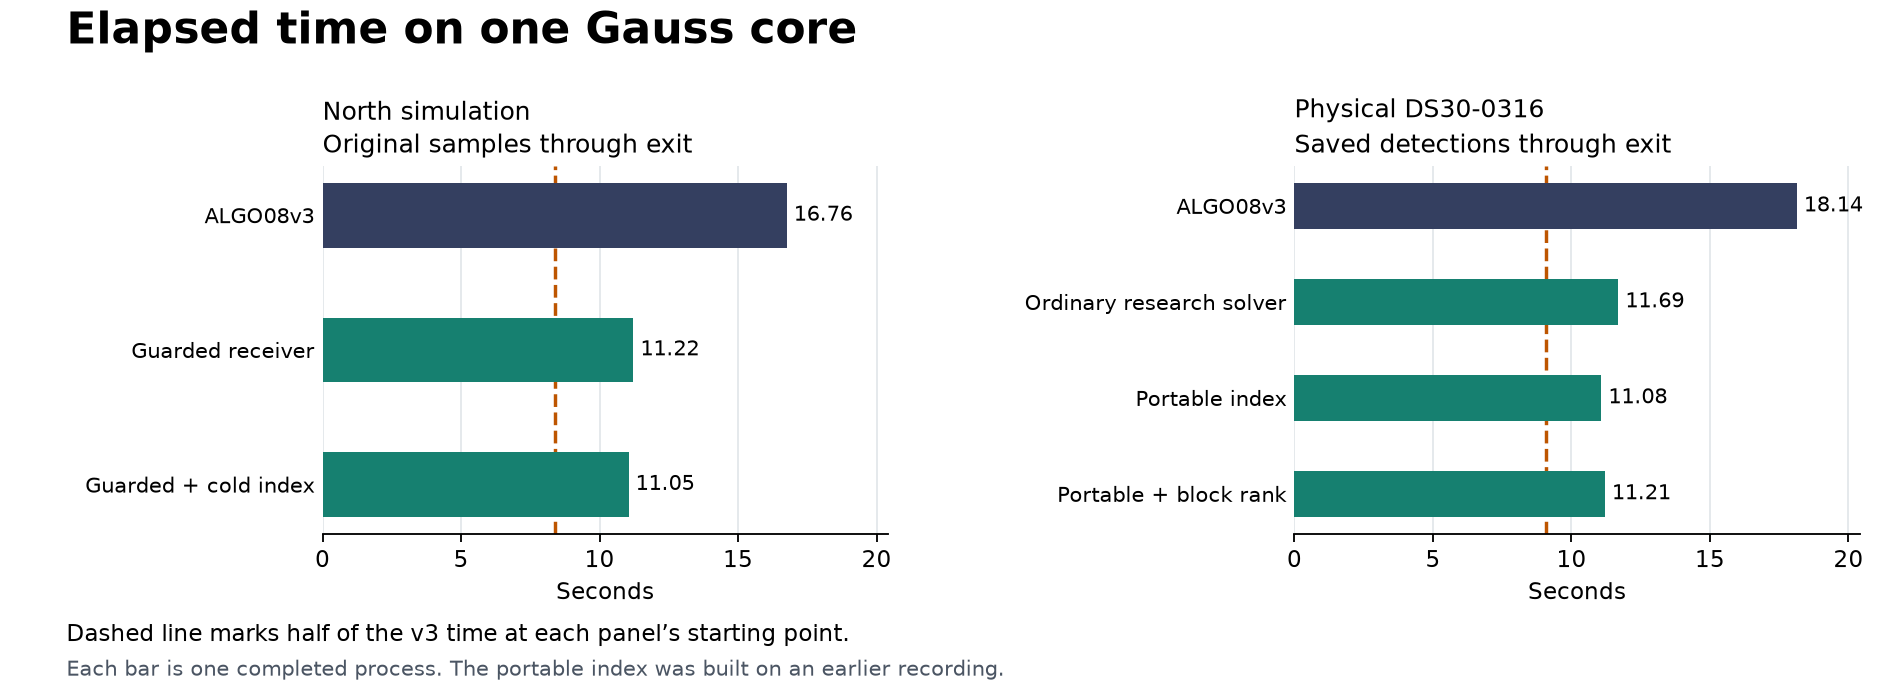
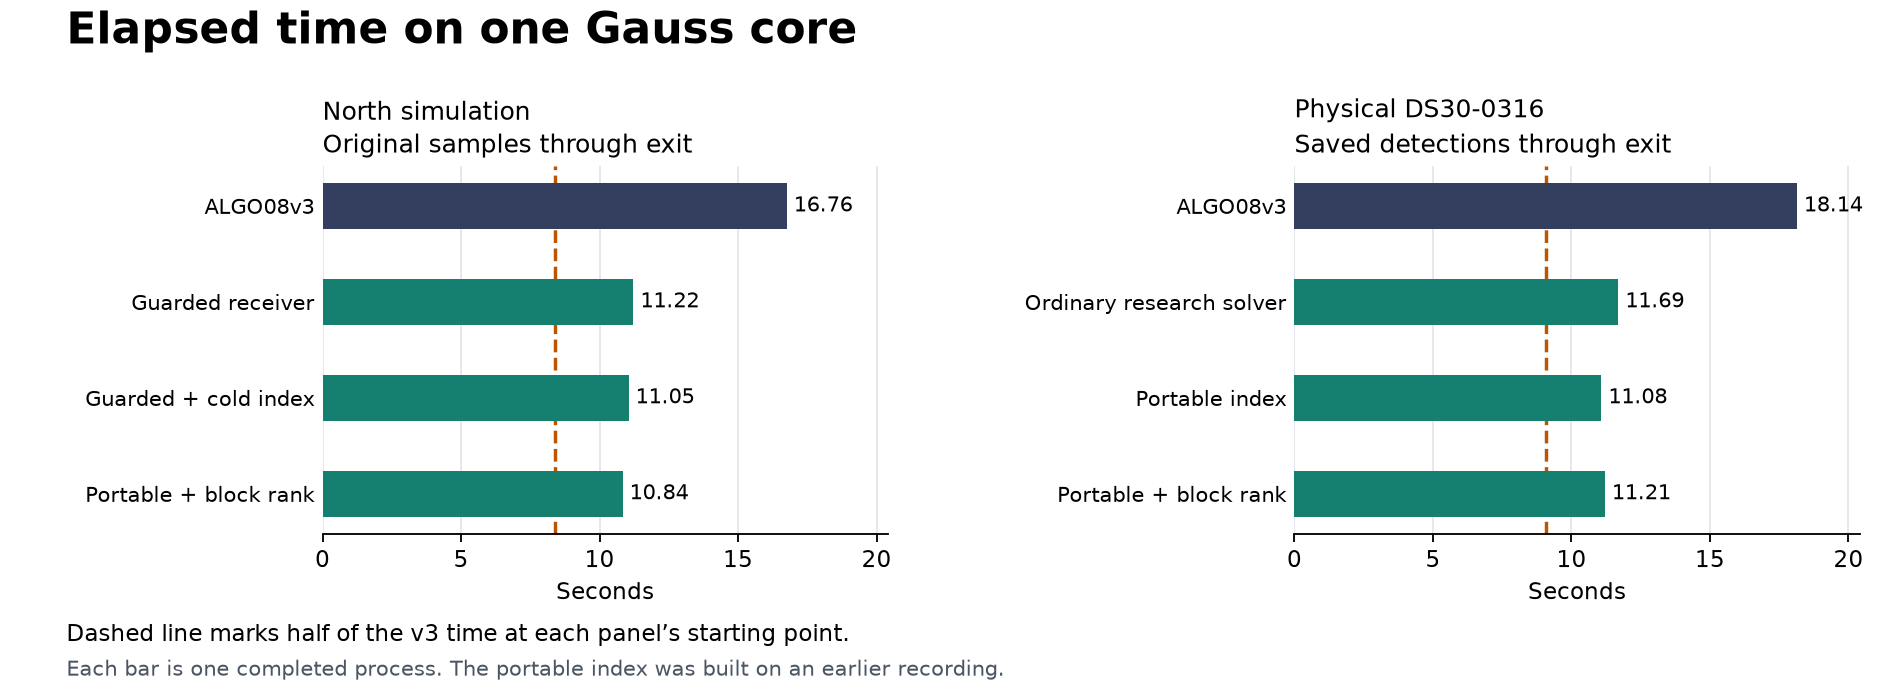
Compare the complete combined raw entry and frozen v3 on the physical omitted region

Changed region(s): [[0.0622, 0.3939, 0.3732, 0.6061], [0.0311, 0.6364, 0.3732, 0.7273], [0.0933, 0.2727, 0.4665, 0.3636]]

diff --git a/reports/ALGO08/v3/orbit_rank_gates_figure.py b/reports/ALGO08/v3/orbit_rank_gates_figure.py
@@ -15,14 +15,17 @@ def read_receipt(stem):
 
 def panels():
     north = read_receipt("north-orbit-index-active")
+    combined = read_receipt("combined-raw-north")
     medium = read_receipt("catalogue-block-portable-0316")["result"]
-    if north["diagnostic_fallback"] or not medium["rank_validated"]:
+    if (north["diagnostic_fallback"] or combined["candidate"]["diagnostic_fallback"]
+            or combined["rank"]["counts"]["admitted_ranks"] != 1 or not medium["rank_validated"]):
         raise ValueError("Panel requires a verified original region check and complete cold rank")
     return [
         ("North simulation", "Original samples through exit", [
             ("ALGO08v3", north["prior"]["named"]["clock"]["elapsed_s"]),
             ("Guarded receiver", north["prior"]["selective"]["clock"]["elapsed_s"]),
-            ("Guarded + cold index", north["clock"]["elapsed_s"])]),
+            ("Guarded + cold index", north["clock"]["elapsed_s"]),
+            ("Portable + block rank", combined["candidate"]["clock"]["elapsed_s"])]),
         ("Physical DS30-0316", "Saved detections through exit", [
             ("ALGO08v3", medium["historical"]["recent_named"]["process"]["elapsed_s"]),
             ("Ordinary research solver", medium["ordinary"]["through_exit"]["elapsed_s"]),

diff --git a/reports/ALGO08/v3/portable_omitted_region.py b/reports/ALGO08/v3/portable_omitted_region.py
@@ -146,6 +146,8 @@ def score(root, output="result.json", *, runtime_ready=False):
         run["horizontal_error_km"] = {arm: distance_km(site, row["latlon"])
             for arm, row in actual["terminal"]["arms"].items() if row.get("latlon")}
         detail = traces[mode] = read(root/mode/"selective/joint-research-receipt.json")
+        run["publication_elapsed_s"] = detail["publication_elapsed_s"]
+        run["publication_cpu_s"] = detail["publication_cpu_s"]
         run["early_regional"] = detail["early_regional"]
         run["projector"] = detail["solve"]["geographic_projector"]
         run["catalogue_handoff"] = detail["solve"]["prepared_exterior"]

diff --git a/tests/pipeline_eval/test_orbit_rank_gates_figure.py b/tests/pipeline_eval/test_orbit_rank_gates_figure.py
@@ -8,5 +8,5 @@ from orbit_rank_gates_figure import panels
 def test_chart_keeps_the_two_distinct_through_exit_boundaries_and_controls():
     north, medium = panels()
     assert [north[1], medium[1]] == ["Original samples through exit", "Saved detections through exit"]
-    assert [round(value, 3) for _, value in north[2]] == [16.761, 11.224, 11.051]
+    assert [round(value, 3) for _, value in north[2]] == [16.761, 11.224, 11.051, 10.835]
     assert [round(value, 3) for _, value in medium[2]] == [18.140, 11.695, 11.083, 11.209]

diff --git a/reports/ALGO08/v3/portable-omitted-region.md b/reports/ALGO08/v3/portable-omitted-region.md
@@ -10,6 +10,8 @@ The corrected portable solver ran the original geographic check and preserved bo
 
 The search centre and screening centre both moved two degrees east. Their original offset and the width remained intact. Each fresh process received the same signed physical detector packet and authenticated its orbit inputs. The frozen 2.69 MB source index came from the earlier DS30-0008 recording. The two repaired pairs matched all scientific values in the position grid, path, terminal, owners, and encoded and decoded images. The full grid document has a distinct elapsed-time field per publication. The comparison checks that field separately from the scientific values. Geography was scored after prediction against the existing operator site reference. There was no independent GNSS survey or new receiver location. [Containing pair](measurements/portable-omitted-region-repaired-containing.json.gz) · [Omitted pair](measurements/portable-omitted-region-repaired-translated.json.gz)
 
+**Frozen ALGO08v3 also falsely published.** Its original complete 20 ms detections produced fixed-zero/fitted errors of **179.490/183.656 km** on the translated offer, versus **1.644/1.661 km** on the containing offer. The 90 observations retained on the translated offer all came from its original fix, and every one changed satellite assignment. The recording supports substantially different assignments in these two offered regions. Matching a large set of observations alone does not establish which region is correct. The translated named process took 6.108 s from its own saved detections through exit and produced all eight verified PNGs. [Frozen v3 publications, assignments and RF fit](named-0016-translated.md)
+
 The earlier index returned text-line pairs before one regional consumer had received the native SGP4 objects it needed. It therefore lost the geographic evidence and took a different path. In the translated test with family calibration guarded, the indexed path retained a single family and withheld because zero independent rows remained for the calibration. Without the guard, that path stopped at the empty calibration mask after 4.836 s. On the ordinary path, 100 observations per arm survived on the wrong region. A separate first attempt at collecting the guarded timing pair wrote both terminals, then failed gathering process metadata because a thread-setting variable was absent. That attempt took 4.364/4.687 s portable/ordinary. The table uses the completed pair after setting all five numerical thread counts to one. A repeat of the read-only scorer verified the existing child results. [Earlier indexed pair](measurements/portable-omitted-region-original.json.gz)
 
 The repair constructs real orbit objects before either regional consumer sees the catalogue. The strengthened scorer now checks the actual proof results, catalogue handoff and native projection counts, alongside all position products. It rejects a matched pair of identical diagnostic errors. The original full-run index speed claims on the positive physical cases have been withdrawn. [Corrected North raw audit](north-orbit-index.md) · [Corrected physical DS30-0316 audit](portable-orbit-0316.md)
@@ -21,6 +23,7 @@ The repair constructs real orbit objects before either regional consumer sees th
 | Experiment | Observed result | Implication |
 |---|---|---|
 | Complete North simulated fix with repaired cold index | **16.761 s v3 → 11.051 s**, 1.52×. The guarded receiver without the index took 11.224 s in an earlier run. The corrected result preserved both positions, all 304 owners per arm, 137 grid points, the 25-probe regional decision and all eight figures from the latter run. | **2.670 s** remain to the 8.381 s target on this fixture. [Raw timing and receipts](north-orbit-index.md) |
+| Complete North simulated fix with portable index and block ranking | **16.761 s v3 → 10.835 s, 1.55×**. The index producer preceded the recording by over 22 hours. All 256 profile calls used the new scorer. Both positions, owners, grid, regional proof and figures matched the corrected cold-index run. | **2.454 s** remain to half time. On physical DS30-0107 the same entry correctly withheld in **0.487 s against 1.466 s for v3**, before either solver optimization was needed. [Complete combined raw runs](combined-raw.md) |
 | Medium physical DS30-0316 from saved detections | **11.695 → 11.083 s** ordinary vs repaired portable; both used 24 projections. Preparation saved **0.381 CPU s**. Building the earlier index cost 1.231 s, taking first use to 12.314 s. | Useful for repeated analyses with shared orbit bulletins. The earlier frozen v3 saved-detection process took 18.140 s. Acquisition is outside all three clocks. [Medium scientific comparison](portable-orbit-0316.md) |
 | Entire catalogue blocks rejected by a conservative bound | **1.323 → 1.210 CPU s** for the medium rank and **4.303 → 3.919 CPU s** for the dense rank. Both kept the full rank order, signed aliases and all diagnostics. | This saves **0.113 and 0.384 CPU s** respectively at the measured stage. The original bias calculation still uses all rows. [Grouped ranking](catalogue-block-bound.md) |
 | Catalogue blocks plus the portable index, same physical DS30-0316 saved input | The complete combined process took **11.209 s**, versus **11.083 s** portable alone and **11.695 s** ordinary. It retained all 2,002 owners per arm, six ranked branches, 24 geographic probes and eight figures. | The stage improvement did not produce a faster full process than the portable-only control in this comparison. [Combined publication](catalogue-block-portable-0316.md) |
@@ -29,3 +32,5 @@ The repair constructs real orbit objects before either regional consumer sees th
 | Preloading imports for two saved requests | The full two-request sequence saved **0.188–0.597 s**, including parent startup and exit. The first response was slower by **0.111–0.298 s**. | Useful only when a resident service can amortize startup and about 148 MiB of proportional resident memory. [Both request orders](preloaded-saved-worker.md) |
 
 None of the physical saved-stage clocks measures original I/Q through exit on a positive fix. Keep the paired physical end-to-end gate open. The earlier full physical withhold cleared half time. The next comparison needs the same guarded receiver and repaired solver on an original positive, including every figure and the regional evidence. [Matched original-input benchmark](same_build_raw_panel.py)
+
+**What the physical weak fix would require.** The earlier matched v3 raw process took 10.824 s on DS30-0016, giving a target of 5.412 s. Decision and publication alone took 3.012 s in the repaired portable containing run. If that stage transfers unchanged and every remaining overhead is free, the receiver has **2.400 s for 991.73 MB, or 413 MB/s**. The actual first 78.55 MB member ran at **271–275 MB/s**. This is an optimistic allowance conditional on the saved-stage clock, and the first member does not measure the other twelve. It points to a larger acquisition improvement or a materially cheaper position solve even if the complete stage becomes available. [Matched earlier full process](raw-0016-best.md) · [New first-member acquisition](continued-cfo-first-0016.md)
